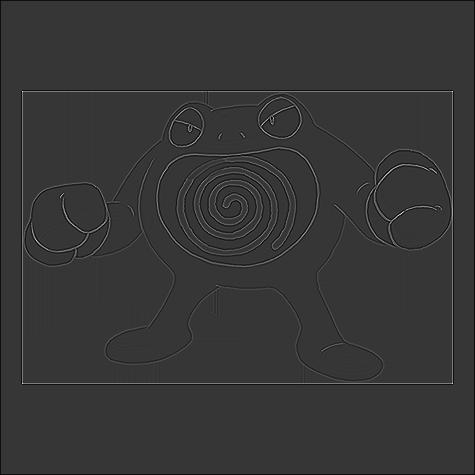
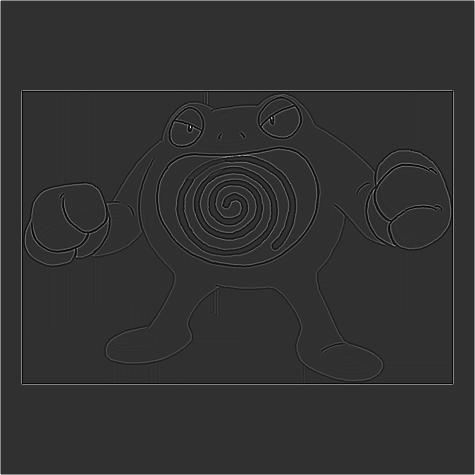
code reduce and final commit

diff --git a/lab2 image Processing/src/Image.java b/lab2 image Processing/src/Image.java
@@ -178,14 +178,37 @@ public class Image {
         return finalArray;
     }
 
-    //===================for laplacian transform ==========================
-    int[][] getLaplacianKernel(){
-        return new int[][]{
-                {0,1,0},
-                {1,-4,1},
-                {0,1,0}};
+    int[][] rescaleImageArray(int[][]unscaledArray){
+
+        int[][] finalArray = new int[unscaledArray.length][unscaledArray[0].length];
+        //to find max and min intensity
+        int maxIntensity = -999999999 ;
+        int minIntensity =  999999999;
+        for(int x =0; x< unscaledArray.length;x++){
+            for(int y=0; y<unscaledArray[0].length;y++){
+                if(maxIntensity<unscaledArray[x][y]){
+                    maxIntensity=unscaledArray[x][y];
+                }
+                if(minIntensity>unscaledArray[x][y]){
+                    minIntensity = unscaledArray[x][y];
+                }
+            }
+        }
+        //rescaling the intensity
+        for(int x =0; x< unscaledArray.length;x++){
+            for(int y=0; y<unscaledArray[0].length;y++){
+                finalArray[x][y] = 255 * (unscaledArray[x][y] - minIntensity)/(maxIntensity-minIntensity);
+            }
+        }
+        return finalArray;
     }
 
+    int[][] getLaplacianKernel(){
+        return new int[][]{
+                {-1,-1,-1},
+                {-1,8,-1},
+                {-1,-1,-1}};
+    }
 
     int[][] getPadded2DSection(int[][]imageArray, int xCord, int yCord , int sizeOfKernel){
         int[][] finalArray = new int[sizeOfKernel][sizeOfKernel];
@@ -219,7 +242,6 @@ public class Image {
 
     public  int[][] correlationConvolutionTransform(int[][] imageArray,int[][]kernel){
         int[][] unscaledArray = new int[imageArray.length][imageArray[0].length];
-        int[][] finalArray = new int[imageArray.length][imageArray[0].length];
         int[][] sectionArray ;
 
         for(int x=0; x< imageArray.length ; x++){
@@ -229,39 +251,14 @@ public class Image {
             }
         }
 
-        //to find max and min intensity
-        int maxIntensity = -999999999 ;
-        int minIntensity =  999999999;
-        for(int x =0; x< unscaledArray.length;x++){
-            for(int y=0; y<unscaledArray[0].length;y++){
-                if(maxIntensity<unscaledArray[x][y]){
-                    maxIntensity=unscaledArray[x][y];
-                }
-                if(minIntensity>unscaledArray[x][y]){
-                    minIntensity = unscaledArray[x][y];
-                }
-            }
-        }
-        //rescaling the intensity
-        for(int x =0; x< unscaledArray.length;x++){
-            for(int y=0; y<unscaledArray[0].length;y++){
-                finalArray[x][y] = 255 * (unscaledArray[x][y] - minIntensity)/(maxIntensity-minIntensity);
-            }
-        }
-
-        return finalArray;
+        return rescaleImageArray(unscaledArray);
     }
 
-    //=====================for enhancement ===============
-
-
     public  int[][] imageLaplacianEnhancement(int[][]grayImageArray, int[][]correlationArray,int[][] kernel){
-
         /*
         The value of image Laplacian is higher where there is sharp transition in intensity, i.e. where the image is more detailed.
          Thus, addition of the Laplacian to the original image enhances the details in an image.
          */
-        int [][] finalArray = new int [grayImageArray.length][grayImageArray[0].length];
         int [][] unscaledArray = new int [grayImageArray.length][grayImageArray[0].length];
 
         int centerRow = (kernel.length /2);
@@ -280,27 +277,7 @@ public class Image {
             }
         }
 
-        //to find max and min intensity
-        int maxIntensity = -999999999 ;
-        int minIntensity =  999999999;
-        for(int x =0; x< unscaledArray.length;x++){
-            for(int y=0; y<unscaledArray[0].length;y++){
-                if(maxIntensity<unscaledArray[x][y]){
-                    maxIntensity=unscaledArray[x][y];
-                }
-                if(minIntensity>unscaledArray[x][y]){
-                    minIntensity = unscaledArray[x][y];
-                }
-            }
-        }
-        //rescaling the intensity
-        for(int x =0; x< unscaledArray.length;x++){
-            for(int y=0; y<unscaledArray[0].length;y++){
-                finalArray[x][y] = 255 * (unscaledArray[x][y] - minIntensity)/(maxIntensity-minIntensity);
-            }
-        }
-
-        return  finalArray;
+        return   rescaleImageArray(unscaledArray);
     }
 
 
@@ -328,7 +305,6 @@ public class Image {
 
     public  int[][] averageTransform(int[][] imageArray,double[][]kernel){
         int[][] unscaledArray = new int[imageArray.length][imageArray[0].length];
-        int[][] finalArray = new int[imageArray.length][imageArray[0].length];
         int[][] sectionArray ;
 
         for(int x=0; x< imageArray.length ; x++){
@@ -338,28 +314,7 @@ public class Image {
             }
         }
 
-
-        //to find max and min intensity
-        int maxIntensity = -999999999 ;
-        int minIntensity =  999999999;
-        for(int x =0; x< unscaledArray.length;x++){
-            for(int y=0; y<unscaledArray[0].length;y++){
-                if(maxIntensity<unscaledArray[x][y]){
-                    maxIntensity=unscaledArray[x][y];
-                }
-                if(minIntensity>unscaledArray[x][y]){
-                    minIntensity = unscaledArray[x][y];
-                }
-            }
-        }
-        //rescaling the intensity
-        for(int x =0; x< unscaledArray.length;x++){
-            for(int y=0; y<unscaledArray[0].length;y++){
-                finalArray[x][y] = 255 * (unscaledArray[x][y] - minIntensity)/(maxIntensity-minIntensity);
-            }
-        }
-
-        return finalArray;
+        return rescaleImageArray(unscaledArray);
     }
 
     //===================== image gradient using Sobel’s masks===============
@@ -369,6 +324,7 @@ public class Image {
                 {0,0,0},
                 {1,2,1}};
     }
+
     public int[][] getHorizontalKernel(){
         return new int[][]{
                 {-1,0,1},
@@ -376,9 +332,8 @@ public class Image {
                 {-1,0,1}};
     }
 
-    public int[][] getMagnitudeOfSobelOperator(int[][] grayImageArray,int[][]horizontalKernel,          int[][] verticalKernel){
+    public int[][] getMagnitudeOfSobelOperator(int[][] grayImageArray,int[][]horizontalKernel, int[][] verticalKernel){
 
-        int [][] finalArray = new int[grayImageArray.length][grayImageArray[0].length];
         int [][] unscaledArray = new int[grayImageArray.length][grayImageArray[0].length];
         int[][] sectionArray;
         int magnitudeX , magnitudeY;
@@ -391,27 +346,10 @@ public class Image {
             }
         }
 
-        //to find max intensity
-        int maxIntensity = -999999999 ;
-        for(int x =0; x< unscaledArray.length;x++){
-            for(int y=0; y<unscaledArray[0].length;y++){
-                if(maxIntensity<unscaledArray[x][y]){
-                    maxIntensity=unscaledArray[x][y];
-                }
-            }
-        }
-        //rescaling the intensity
-        for(int x =0; x< unscaledArray.length;x++){
-            for(int y=0; y<unscaledArray[0].length;y++){
-                finalArray[x][y] = 255 * unscaledArray[x][y]/maxIntensity;
-            }
-        }
-
-
-        return finalArray;
+        return rescaleImageArray(unscaledArray);
     }
 
-    public static int getMedian(int [][]array ){
+    public static int get93thPercentile(int [][]array ){
         // how we do is we flatten 1d array into 2d and sort the array
         //then if odd number of elements are odd then value in length/2 is median
         //if even we take out average of 2
@@ -427,19 +365,7 @@ public class Image {
 
         Arrays.sort(oneDArray);
 
-        /*
-        if(oneDArray.length % 2 == 0){//is even
-            int num1 = oneDArray[(oneDArray.length-1)/2];
-            int num2 = oneDArray[((oneDArray.length-1)/2)+1];
-            return (num1+num2)/2;
-        }
-        else {//is odd
-            return oneDArray[oneDArray.length/2];
-        }
-
-         */
-
-        return oneDArray[oneDArray.length *90/100];
+        return oneDArray[oneDArray.length *93/100];
     }
 
     int [][] binaryImagePixelsArray (int[][]inputArray , int threshold){
@@ -461,7 +387,6 @@ public class Image {
     }
 
 }
-
 
 //if f[][] then f.length is number of rows and f[0].length is number of columns
 //255 is white 0 is black

diff --git a/lab2 image Processing/src/Main.java b/lab2 image Processing/src/Main.java
@@ -11,19 +11,15 @@ public class Main {
         Image.display(grayImageArray,"Original");
         Image.saveToFile(grayImageArray,"1 grayScaled","jpg");
 
-        System.out.println("Grey scaling complete ");
 
         int[][] arrayLogTransform = img.logTransformArray(grayImageArray,1);
         Image.display(arrayLogTransform,"log transform image");
         Image.saveToFile(arrayLogTransform,"2 log transform image","jpg");
 
-        System.out.println("Log transform complete ");
 
         int[][] arrayHistogram= img.histogramArray(grayImageArray);
         Image.display(arrayHistogram,"Histogram equalization image");
         Image.saveToFile(arrayHistogram,"3 Histogram equalization image","jpg");
-
-        System.out.println("Histogram equalization complete ");
 
 
         int[][] kernel = img.getLaplacianKernel();
@@ -31,41 +27,26 @@ public class Main {
         Image.display(correlationArray,"correlation image");
         Image.saveToFile(correlationArray,"4 correlation image","jpg");
 
-        System.out.println("Laplacian complete ");
-
 
         int[][]enhancedImage =img.imageLaplacianEnhancement(grayImageArray,correlationArray,kernel);
 
-        //console.writeConsole("laplacina image",correlationArray);
-        //console.writeConsole("ehance image",enhancedImage);
-
         Image.display(enhancedImage,"enhanced image");
         Image.saveToFile(enhancedImage,"5 enhanced image","jpg");
-
-        System.out.println("Laplacian enhancement complete ");
 
         double[][] blurKernel = img.getAverageKernel();
         int[][] blurArray = img.averageTransform(grayImageArray,blurKernel);
         Image.display(blurArray,"blurring image ");
         Image.saveToFile(blurArray,"6 blurring image","jpg");
 
-        System.out.println("Image blurring complete ");
 
         int[][] horizontalKernel = img.getHorizontalKernel();
         int[][] verticalKernel = img.getVerticalKernel();
         int[][] magnitudeOfSobelOperator = img.getMagnitudeOfSobelOperator(grayImageArray,horizontalKernel,
                 verticalKernel);
-        System.out.println("solbe's complete ");
-
-        int median  = Image.getMedian(magnitudeOfSobelOperator);
-        int[][] binaryImageMedian = img.binaryImagePixelsArray(magnitudeOfSobelOperator,median);
-        System.out.println("binary image ");
+        int percentile93th = Image.get93thPercentile(magnitudeOfSobelOperator);
+        int[][] binaryImageMedian = img.binaryImagePixelsArray(magnitudeOfSobelOperator, percentile93th);
         Image.display(binaryImageMedian," image gradient using Sobel masks");
         Image.saveToFile(binaryImageMedian,"7 image gradient using Sobel masks","jpg");
-
-
-
-
     }
 }
 
